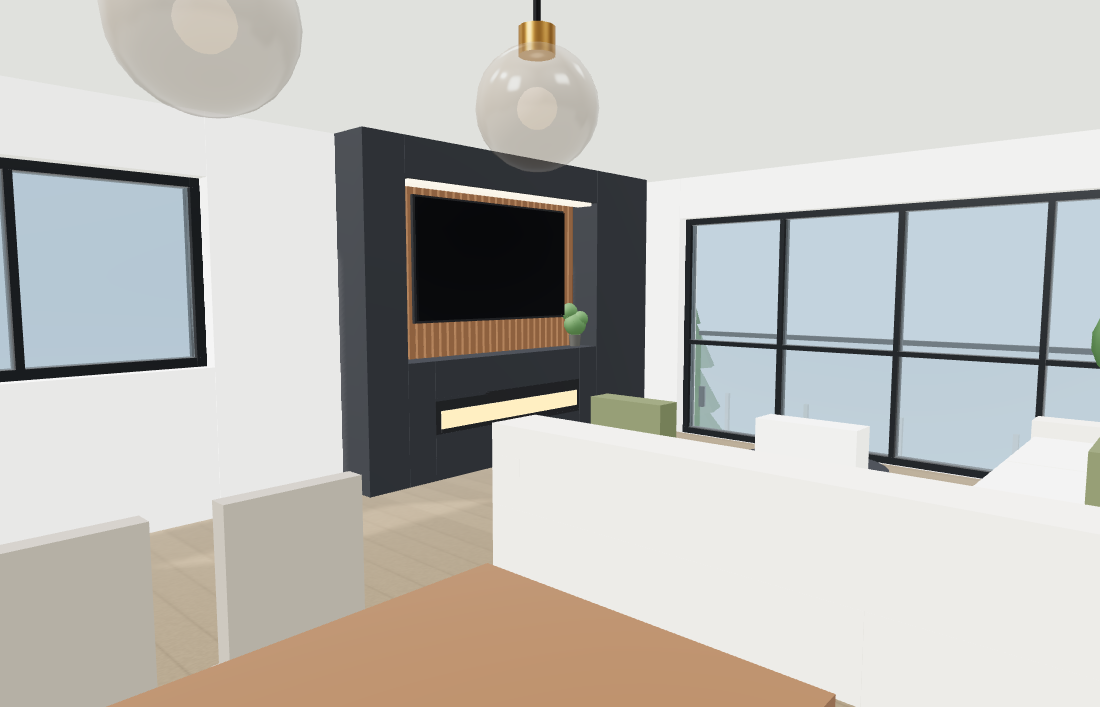
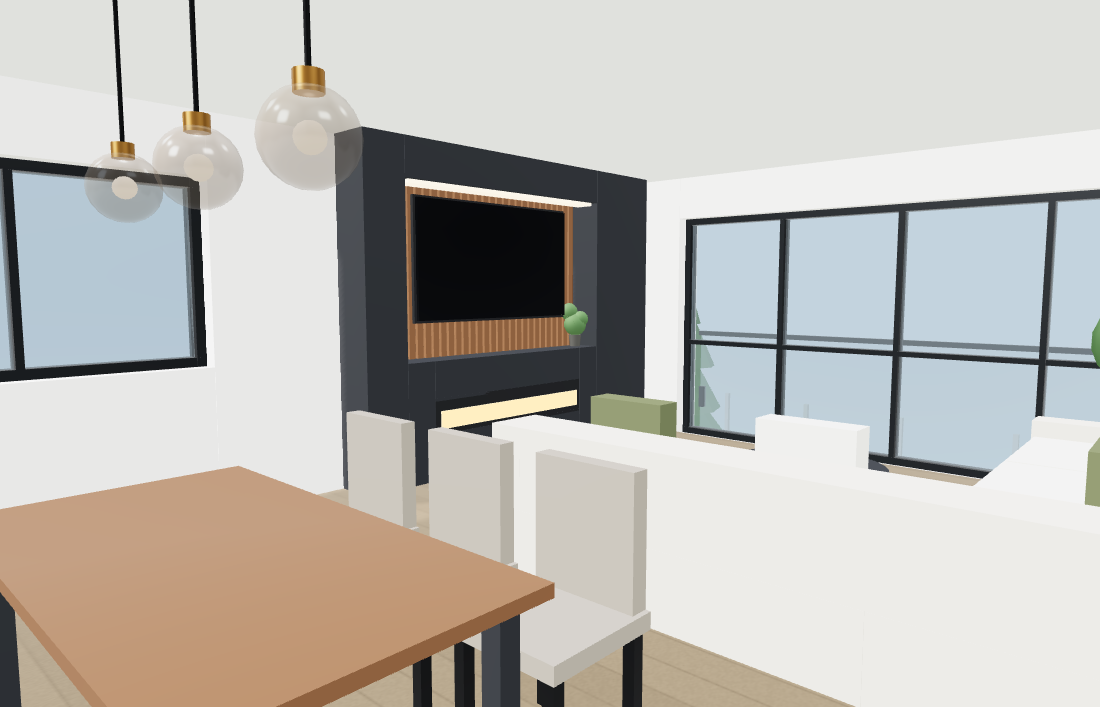
Turn the dining table across the room and bring it in
It was 1.80 m running north–south, tucked into the east corner with three chairs
down each flank. Turned through 90° it sits across the room instead, and moving
it onto the room's own centre line at x 2.95 takes it off the wall it was
pressed against.

Turning it also opens both ways out of that end, which the old position pinched:
the 1.00 m gap into the kitchen between the peninsula and g-p11, and the passage
to the hall east of x 3.953. The chairs now clear the hall side by 0.17 m and
leave 0.69 m behind them on the kitchen side — and the real route past is round
the west end of the table, where there is 1.70 m of open floor.

Front to back it is as centred as the band allows: 4.2 m at the sofa back to
7.551 at the room edge is 3.35 m, and the table with a chair pulled out either
side takes 2.02 of it, so the two gaps come out at 0.64 and 0.69.

diningChair() grew an axis, since its backrest could only stand on ±x.

Claude-Session: https://claude.ai/code/session_019xVJAk73kmvxS8tgZyQUWS

Changed region(s): [[0.0, 0.5601, 0.7727, 1.0], [0.0618, 0.0, 0.34, 0.3112], [0.4327, 0.0, 0.5564, 0.2489]]

diff --git a/src/scene/furniture.ts b/src/scene/furniture.ts
@@ -241,12 +241,14 @@ function barStool(p: Place, x: number, y: number) {
   p.rod(BLACK_METAL, 0.013, [x - 0.14, y, 0.24], [x + 0.14, y, 0.24])
 }
 
-/** Upholstered dining chair. `back` is +1 or −1: which side of x the backrest stands on. */
-function diningChair(p: Place, x: number, y: number, back: 1 | -1) {
+/** Upholstered dining chair. The seat is square; `axis` and `back` place the backrest. */
+function diningChair(p: Place, x: number, y: number, axis: 'x' | 'y', back: 1 | -1) {
   const s = 0.23
   p.box(TAUPE, x - s, y - s, x + s, y + s, 0.42, 0.48)
-  const bx = x + back * (s - 0.035)
-  p.box(TAUPE, bx - 0.035, y - s + 0.02, bx + 0.035, y + s - 0.02, 0.48, 0.94)
+  const off = back * (s - 0.035)
+  const [bx, by] = axis === 'x' ? [x + off, y] : [x, y + off]
+  const [hx, hy] = axis === 'x' ? [0.035, s - 0.02] : [s - 0.02, 0.035]
+  p.box(TAUPE, bx - hx, by - hy, bx + hx, by + hy, 0.48, 0.94)
   p.many(CHAIR_LEG, BLACK_METAL, [
     [x - 0.19, y - 0.19, 0.22],
     [x + 0.19, y - 0.19, 0.22],
@@ -479,18 +481,21 @@ function buildLiving(p: Place) {
   p.box(WOOL, 0.903, 0.8, 4.453, 4.6, 0, 0.014)
   plant(p, 4.953, 0.85, 1.5)
 
-  // ── Dining for six, set east so the way through to the kitchen stays clear ──
-  p.box(WALNUT, 3.625, 5.4, 4.575, 7.2, 0.72, 0.76)
+  // ── Dining for six, turned across the room and brought in off the corner ──
+  // Sitting the long sides north and south leaves both ways out of this end open: the 1.00 m
+  // gap into the kitchen between the peninsula and g-p11, and the passage to the hall east of
+  // x 3.953. It also puts the table on the room's own centre line rather than against a wall.
+  p.box(WALNUT, 2.05, 5.375, 3.85, 6.325, 0.72, 0.76)
   p.many(box(0.07, 0.72, 0.07), CHARCOAL, [
-    [3.72, 5.5, 0.36],
-    [4.48, 5.5, 0.36],
-    [3.72, 7.1, 0.36],
-    [4.48, 7.1, 0.36],
+    [2.15, 5.47, 0.36],
+    [3.75, 5.47, 0.36],
+    [2.15, 6.23, 0.36],
+    [3.75, 6.23, 0.36],
   ])
-  for (const y of [5.7, 6.3, 6.9]) {
-    diningChair(p, 3.32, y, -1)
-    diningChair(p, 4.88, y, 1)
-    pendant(p, 4.1, y, 1.98)
+  for (const x of [2.35, 2.95, 3.55]) {
+    diningChair(p, x, 5.07, 'y', -1)
+    diningChair(p, x, 6.63, 'y', 1)
+    pendant(p, x, 5.85, 1.98)
   }
 }
 
